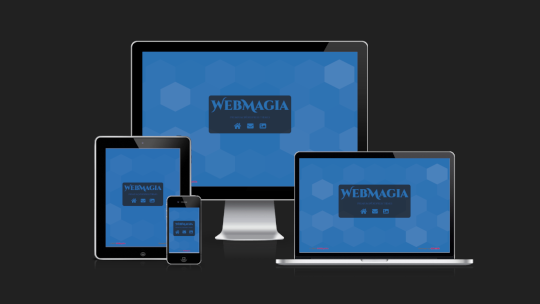
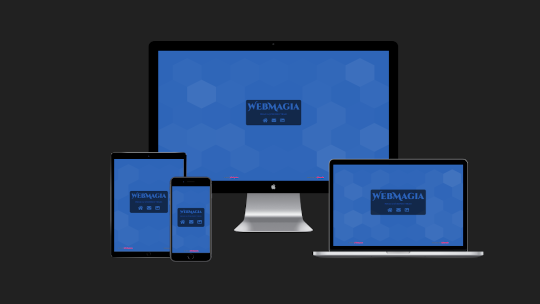
fix(carousel): add new images to portfolio carousel

Changed region(s): [[0.1481, 0.1184, 0.9185, 0.8882], [0.3852, 0.2961, 0.563, 0.4441]]

diff --git a/src/scss/mixins/_picture.scss b/src/scss/mixins/_picture.scss
@@ -21,6 +21,25 @@
   }
 }
 
+@mixin portfolio-fluid-aspect($ratio: 1 1, $selector: "> :first-child") {
+  $selector: unquote($selector);
+
+  // parent
+  position: relative;
+  display: block;
+  height: auto;
+  padding-bottom: percentage(nth($ratio, 2) / nth($ratio, 1));
+
+  // child
+  #{$selector} {
+    position: absolute;
+    top: 50%;
+    left: 50%;
+    width: 100%;
+    transform: translate(-50%, -50%);
+  }
+}
+
 @mixin fluid-aspect($ratio: 1 1, $selector: "> :first-child") {
   $selector: unquote($selector);
 

diff --git a/src/scss/components/_portfolio.scss b/src/scss/components/_portfolio.scss
@@ -9,17 +9,8 @@
   background-color: $grey-900;
 
   .portfolio-picture {
-    position: relative;
-    display: block;
-    height: 100%;
-
-    .portfolio-img {
-      width: auto;
-
-      @media screen and (min-width: 1200px) {
-        width: 100%;
-      }
-    }
+    // You should use a 16:9 image ratio, such as 1280 x 720 px.
+    @include portfolio-fluid-aspect(16 9, ".portfolio-img");
   }
 
   .carousel-control-prev,
